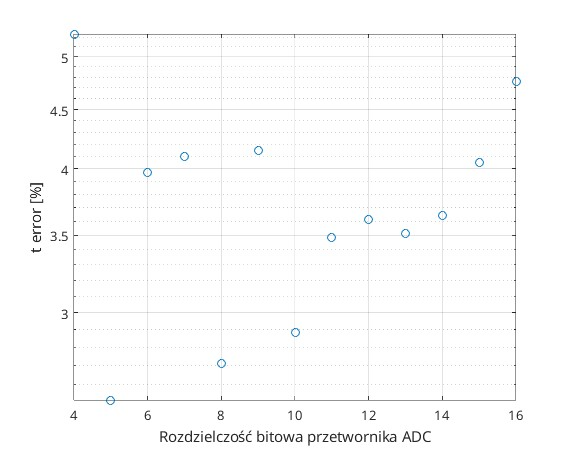
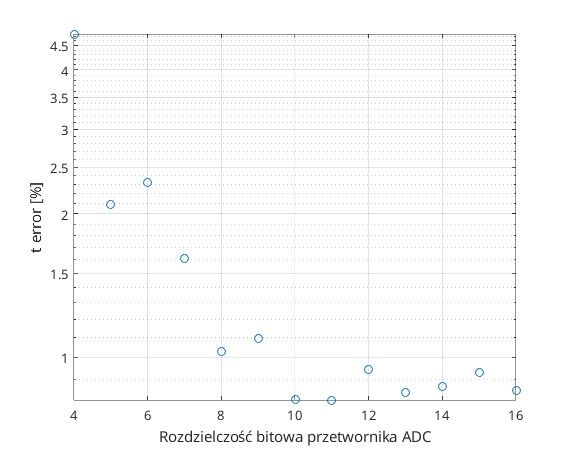
find_2_max funkcja

diff --git a/Main.m b/Main.m
@@ -42,9 +42,7 @@ V_time(~i)=q/Cfeed*((time(~i)-t_0(1,1))/tau_sh).*exp(-(time(~i)-t_0(1,1))/tau_sh
 % V_time = add_white_noise(V_time, 0.1);
 
 
-
-max_id = find(t(1,:)==1*T_smp);
-max_sampls = d(1, max_id:max_id+1 );
+max_sampls = find_2_max(d, t, T_smp);
 
 [q_calc_quant, t_calc] = charge_output(max_sampls, T_smp, tau_sh, Cfeed);
 disp(q_calc_quant)
@@ -79,8 +77,7 @@ for i=1:length(bit_res)
     d = deconvolution(V_real, tau_sh, T_smp);
 
     % Dwa największe prążki
-    max_id = find(t(1,:)==1*T_smp);
-    max_sampls = d(:, max_id:max_id+1 );
+    max_sampls = find_2_max(d, t, T_smp);
 
     % Obliczamy ładunek i t_0 
     [q_calc_quant, t_0_calc_quant] = charge_output(max_sampls, T_smp, tau_sh, Cfeed);
@@ -126,8 +123,7 @@ for i = 1:length(White_noise_resio_)
 
     d = deconvolution(V_real, tau_sh, T_smp);
 
-    max_id = find(t(1,:)==1*T_smp);
-    max_sampls = d(:, max_id:max_id+1 );
+    max_sampls = find_2_max(d, t, T_smp);
 
     [q_calc_quant, t_0_calc_quant] = charge_output(d, T_smp, tau_sh, Cfeed);
     quant_index = ~isnan(q_calc_quant) & abs(q_calc_quant) <= V_ref & ~isnan(t_0_calc_quant) & abs(t_0_calc_quant) <= 1;
@@ -180,8 +176,7 @@ for i = 1:length(smp_sh_ratio_samples)
 
     d = deconvolution(V_real, tau_sh, T_smp);
 
-    max_id = find(t(1,:)==1*T_smp);
-    max_sampls = d(:, max_id:max_id+1 );
+    max_sampls = find_2_max(d, t, T_smp);
 
     [q_calc_quant, t_0_calc_quant] = charge_output(d, T_smp, tau_sh, Cfeed);
     quant_index = ~isnan(q_calc_quant) & abs(q_calc_quant) <= V_ref & ~isnan(t_0_calc_quant) & abs(t_0_calc_quant) <= 1;
@@ -196,12 +191,12 @@ end
 
 figure;
 semilogy(smp_sh_ratio_samples,q_err_noise, "o");
-xlabel('Stosunek okresu sygnału do okresu próbkowania (Tsmp/ tau_sh)');
+xlabel('Stosunek okresu sygnału do okresu próbkowania');
 ylabel('Q error [%]');
 grid on;
 
 figure;
 semilogy(smp_sh_ratio_samples,t_err_noise, "o");
-xlabel('Stosunek okresu sygnału do okresu próbkowania (Tsmp/ tau_sh)');
+xlabel('Stosunek okresu sygnału do okresu próbkowania');
 ylabel('t error [%]');
 grid on;

diff --git a/Lib/find_2_max.m b/Lib/find_2_max.m
@@ -1,0 +1,12 @@
+function max_sampls = find_2_max(d, t, T_smp)
+%FIND_2_MAX zwraca 2 największe przążki po dekonwolucji d1,d2
+% Wejście:
+%   d          :  Przążki po dekonwolucji
+%   t          :  czas systemu
+%   T_smp      :  Okres próbkowania
+% Wyjście:
+%   max_sampls : d1,d2
+    max_id = find(t(1,:)==1*T_smp);
+    max_sampls = d(:, max_id:max_id+1 );
+end
+
